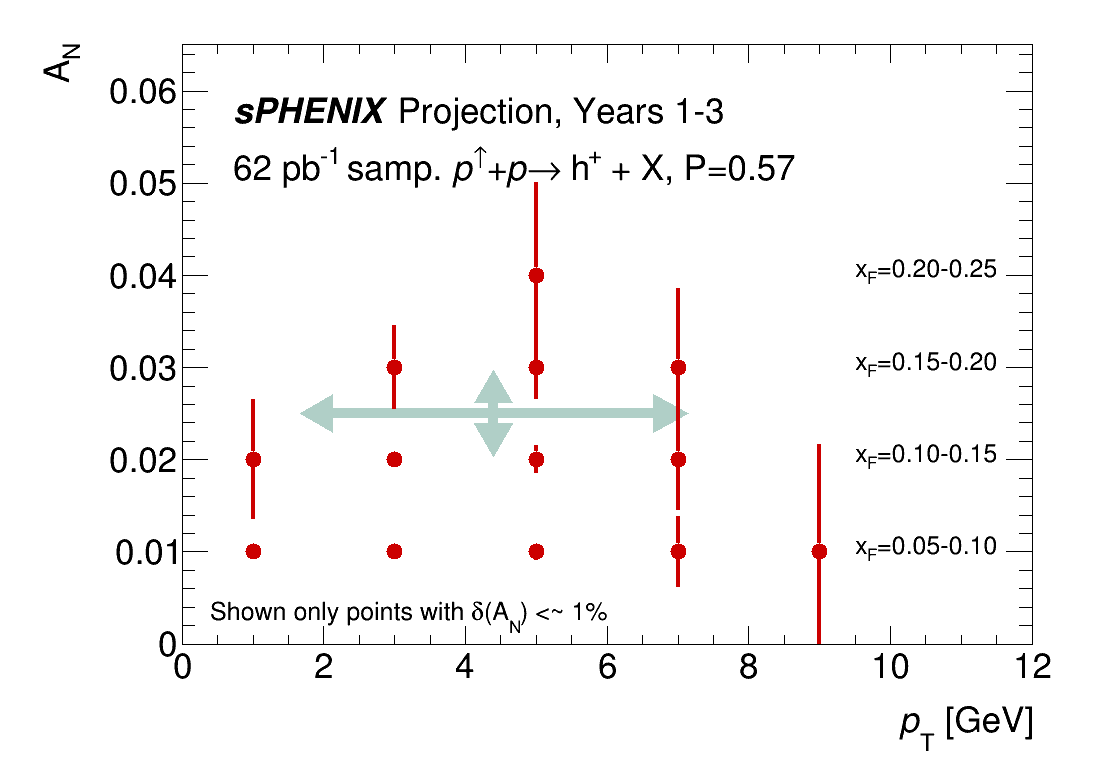
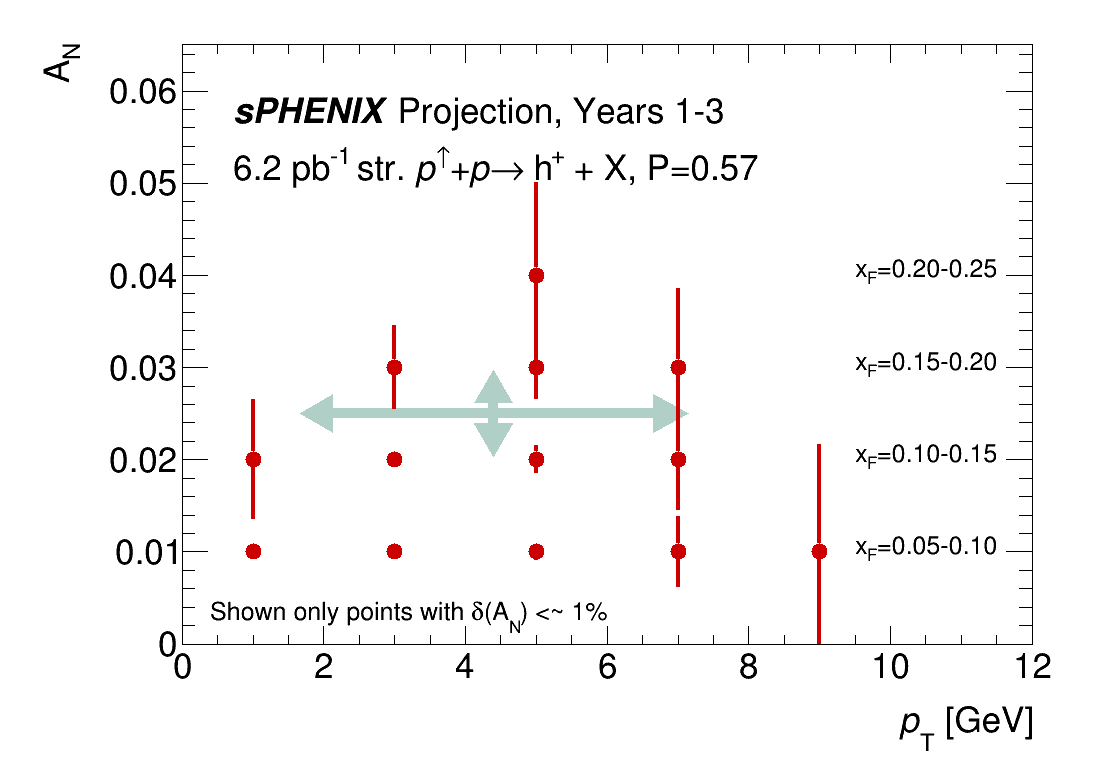
fix label

Changed region(s): [[0.2168, 0.186, 0.7432, 0.2481]]

diff --git a/A_N/sPHENIX_BUP20/han_BUP2020.C b/A_N/sPHENIX_BUP20/han_BUP2020.C
@@ -24,7 +24,7 @@
 #include "sPhenixStyle.C"
 
 const double pp_inelastic_crosssec = 42e-3;        // 42 mb [sPH-TRG-000]
-const double pp_rec_3year = 62e12;                 // BUP2020
+const double pp_rec_3year = 6.2e12;                 // BUP2020
 const double pp_rec_5year = pp_rec_3year + 80e12;  // BUP2020
 const double pp_beam_pol = 0.57;
 
@@ -102,7 +102,7 @@ void han_BUP2020()
 {
   SetsPhenixStyle();
 
-  const double ref_Lum = 100e12;
+  const double ref_Lum = 10e12;
   const double err_scale = sqrt(ref_Lum / pp_rec_3year);
 
   const int nxf = 20;
@@ -170,7 +170,7 @@ void han_BUP2020()
   leg->SetFillStyle(0);
   //     leg->AddEntry("", "#it{#bf{sPHENIX}} Projection", "");
   leg->AddEntry("", Form("#it{#bf{sPHENIX}} Projection, Years 1-3"), "");
-  leg->AddEntry("", Form("%.0f pb^{-1} samp. #it{p}^{#uparrow}+#it{p}#rightarrow h^{+} + X, P=%.2f", pp_rec_3year / 1e12, pp_beam_pol), "");
+  leg->AddEntry("", Form("%.1f pb^{-1} str. #it{p}^{#uparrow}+#it{p}#rightarrow h^{+} + X, P=%.2f", pp_rec_3year / 1e12, pp_beam_pol), "");
   leg->Draw();
 
   SaveCanvas(c1, TString(c1->GetName()), kTRUE);

diff --git a/A_N/sPHENIX_BUP20/sphenix_han.C b/A_N/sPHENIX_BUP20/sphenix_han.C
@@ -1,7 +1,7 @@
 void sphenix_han()
 {
 //=========Macro generated from canvas: sphenix_han/sphenix_han
-//=========  (Fri Aug 28 14:47:37 2020) by ROOT version 6.16/00
+//=========  (Fri Aug 28 14:59:02 2020) by ROOT version 6.16/00
    TCanvas *sphenix_han = new TCanvas("sphenix_han", "sphenix_han",621,585,1100,800);
    gStyle->SetOptStat(0);
    gStyle->SetOptTitle(0);
@@ -347,7 +347,7 @@ void sphenix_han()
    entry->SetMarkerStyle(21);
    entry->SetMarkerSize(1);
    entry->SetTextFont(42);
-   entry=leg->AddEntry("","62 pb^{-1} samp. #it{p}^{#uparrow}+#it{p}#rightarrow h^{+} + X, P=0.57","");
+   entry=leg->AddEntry("","6.2 pb^{-1} str. #it{p}^{#uparrow}+#it{p}#rightarrow h^{+} + X, P=0.57","");
    entry->SetLineColor(1);
    entry->SetLineStyle(1);
    entry->SetLineWidth(1);
